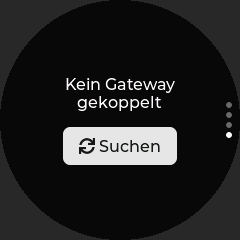
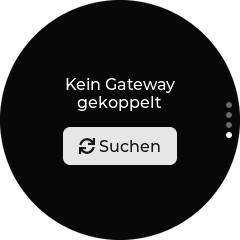
Round-Screenshots: ausserhalb des Kreises transparent
Die Host-Vorschau schreibt die echten Pixel; render.sh setzt beim Umwandeln
in PNG eine runde Alphamaske (Durchmesser 240, Rand geglaettet). Statt des
grauen Bereichs ist ausserhalb des Panels jetzt der Seitenhintergrund zu
sehen. Screenshots neu erzeugt, READMEs angepasst.

Claude-Session: https://claude.ai/code/session_01XRbTNR4FRdpa3sNittWBxo

diff --git a/next/controller-round/tools/preview/harness.cpp b/next/controller-round/tools/preview/harness.cpp
@@ -1,5 +1,6 @@
 // Host-Vorschau der runden Oberflaeche: kompiliert main/ui.cpp gegen LVGL mit nachgebildetem
-// Controller-Dienst und schreibt PPM-Bilder (ausserhalb des Kreises abgedunkelt wie am Geraet).
+// Controller-Dienst und schreibt PPM-Bilder. render.sh macht beim Umwandeln in PNG alles ausserhalb
+// des runden Panels transparent.
 // Nicht das Geraet: Touch, Farben und Timing koennen abweichen.
 #include <stdio.h>
 #include <string.h>
@@ -54,12 +55,7 @@ static void shot(const char *name) {
   lv_refr_now(nullptr);
   FILE *f = fopen((out + "/" + name + ".ppm").c_str(), "wb");
   fprintf(f, "P6\n240 240\n255\n");
-  for (int y = 0; y < 240; y++) for (int x = 0; x < 240; x++) {
-    int i = (y * 240 + x) * 3; float dx = x - 119.5f, dy = y - 119.5f;
-    bool in = dx * dx + dy * dy <= 120.f * 120.f; // rundes Panel
-    unsigned char p[3] = {(unsigned char)(in ? fb[i] : 40), (unsigned char)(in ? fb[i + 1] : 40), (unsigned char)(in ? fb[i + 2] : 40)};
-    fwrite(p, 1, 3, f);
-  }
+  fwrite(fb, 1, 240 * 240 * 3, f);
   fclose(f);
 }
 

diff --git a/next/controller-round/README.md b/next/controller-round/README.md
@@ -13,7 +13,7 @@ Round Controller <--ESP-NOW (STATE)-- Gateway        (Gateway bleibt autoritativ
 
 ![Ein/Aus](../screenshots/controller-round_240x240/05_power_on.png) ![Helligkeit](../screenshots/controller-round_240x240/06_brightness.png) ![Farbe](../screenshots/controller-round_240x240/07_color.png) ![Gateway](../screenshots/controller-round_240x240/08_gateway.png)
 
-Die Bilder stammen aus der Host-Vorschau (`tools/preview/render.sh`: echtes `main/ui.cpp` gegen LVGL 9.6 mit nachgebildeten Daten, außerhalb des Kreises abgedunkelt). Sie sind nicht vom Gerät. Alle Bilder: `next/screenshots/controller-round_240x240/` und Abschnitt „Screenshots“ in [../README.md](../README.md).
+Die Bilder stammen aus der Host-Vorschau (`tools/preview/render.sh`: echtes `main/ui.cpp` gegen LVGL 9.6 mit nachgebildeten Daten, außerhalb des Kreises transparent). Sie sind nicht vom Gerät. Alle Bilder: `next/screenshots/controller-round_240x240/` und Abschnitt „Screenshots“ in [../README.md](../README.md).
 
 ## Hardware
 

diff --git a/next/README.md b/next/README.md
@@ -42,7 +42,7 @@ Erzeugt mit `tools/ui_preview/render.sh`, Ordner `screenshots/controller_320x240
 
 ### Round Controller (240×240, rund, temporär)
 
-Erzeugt mit `controller-round/tools/preview/render.sh` (außerhalb des Kreises abgedunkelt), Ordner `screenshots/controller-round_240x240/`.
+Erzeugt mit `controller-round/tools/preview/render.sh` (außerhalb des Kreises transparent), Ordner `screenshots/controller-round_240x240/`.
 
 | Ohne Gateway | Gateway-Seite ohne Kopplung | Gateway wählen |
 |---|---|---|
